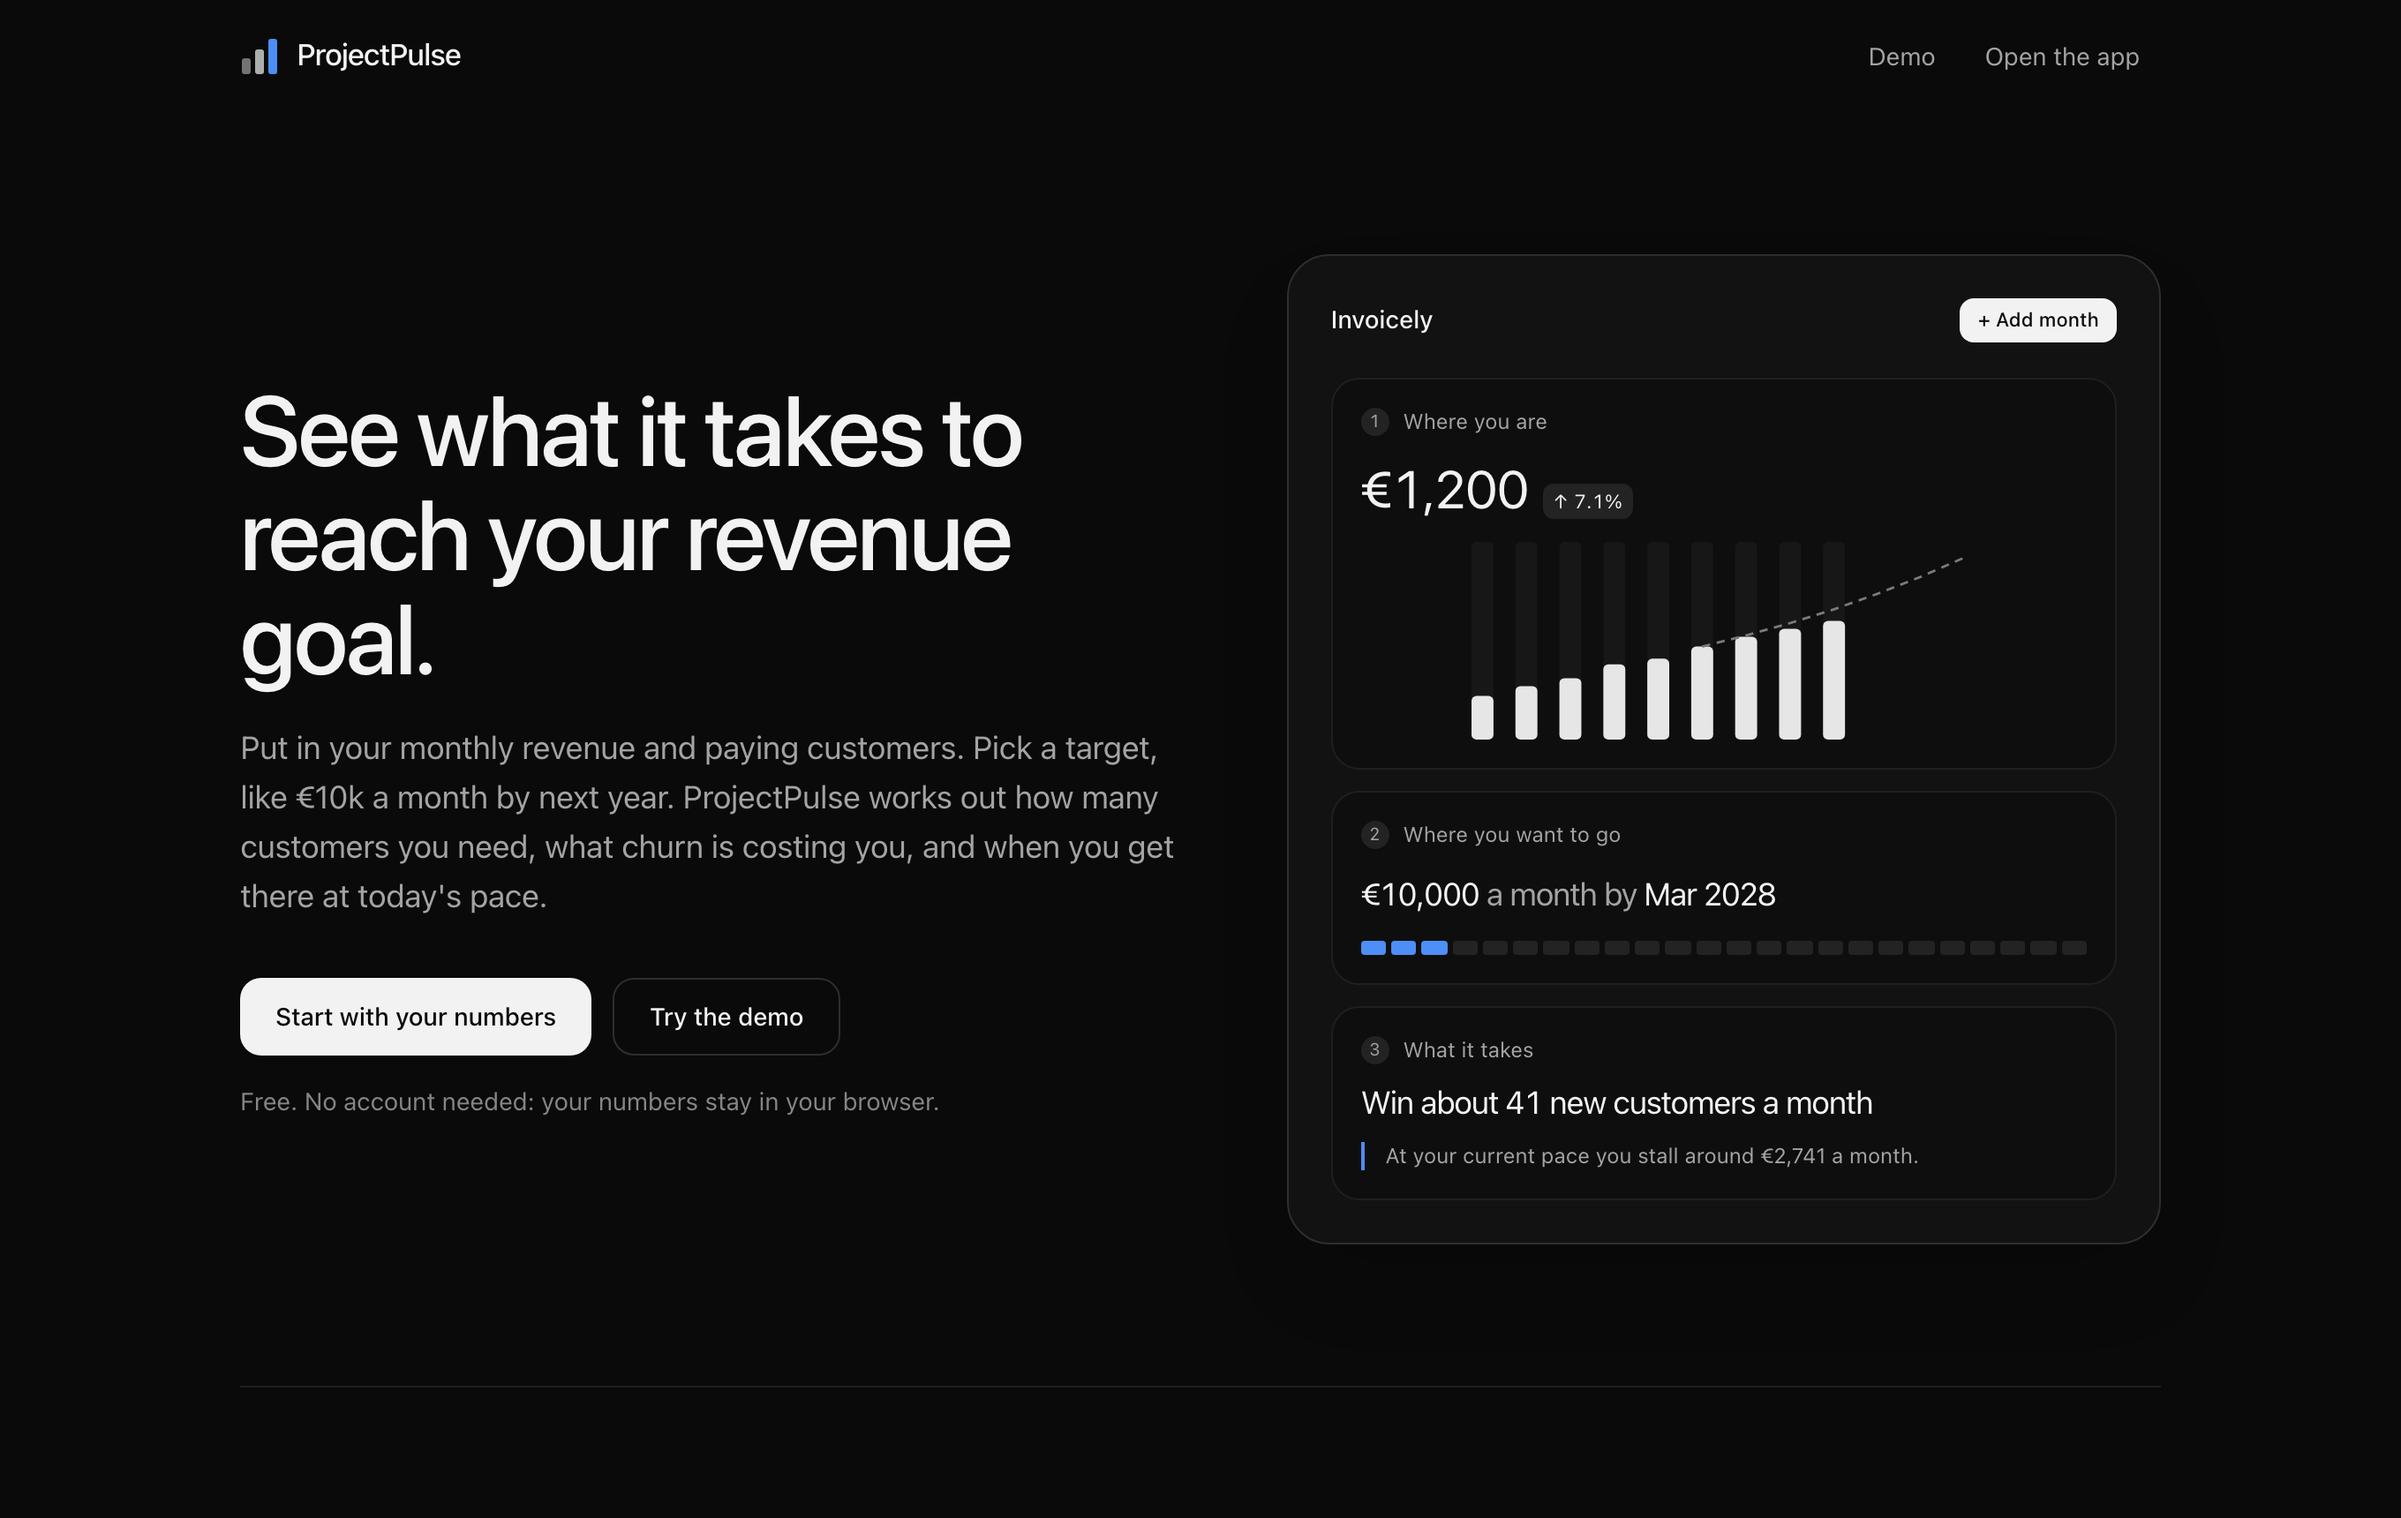
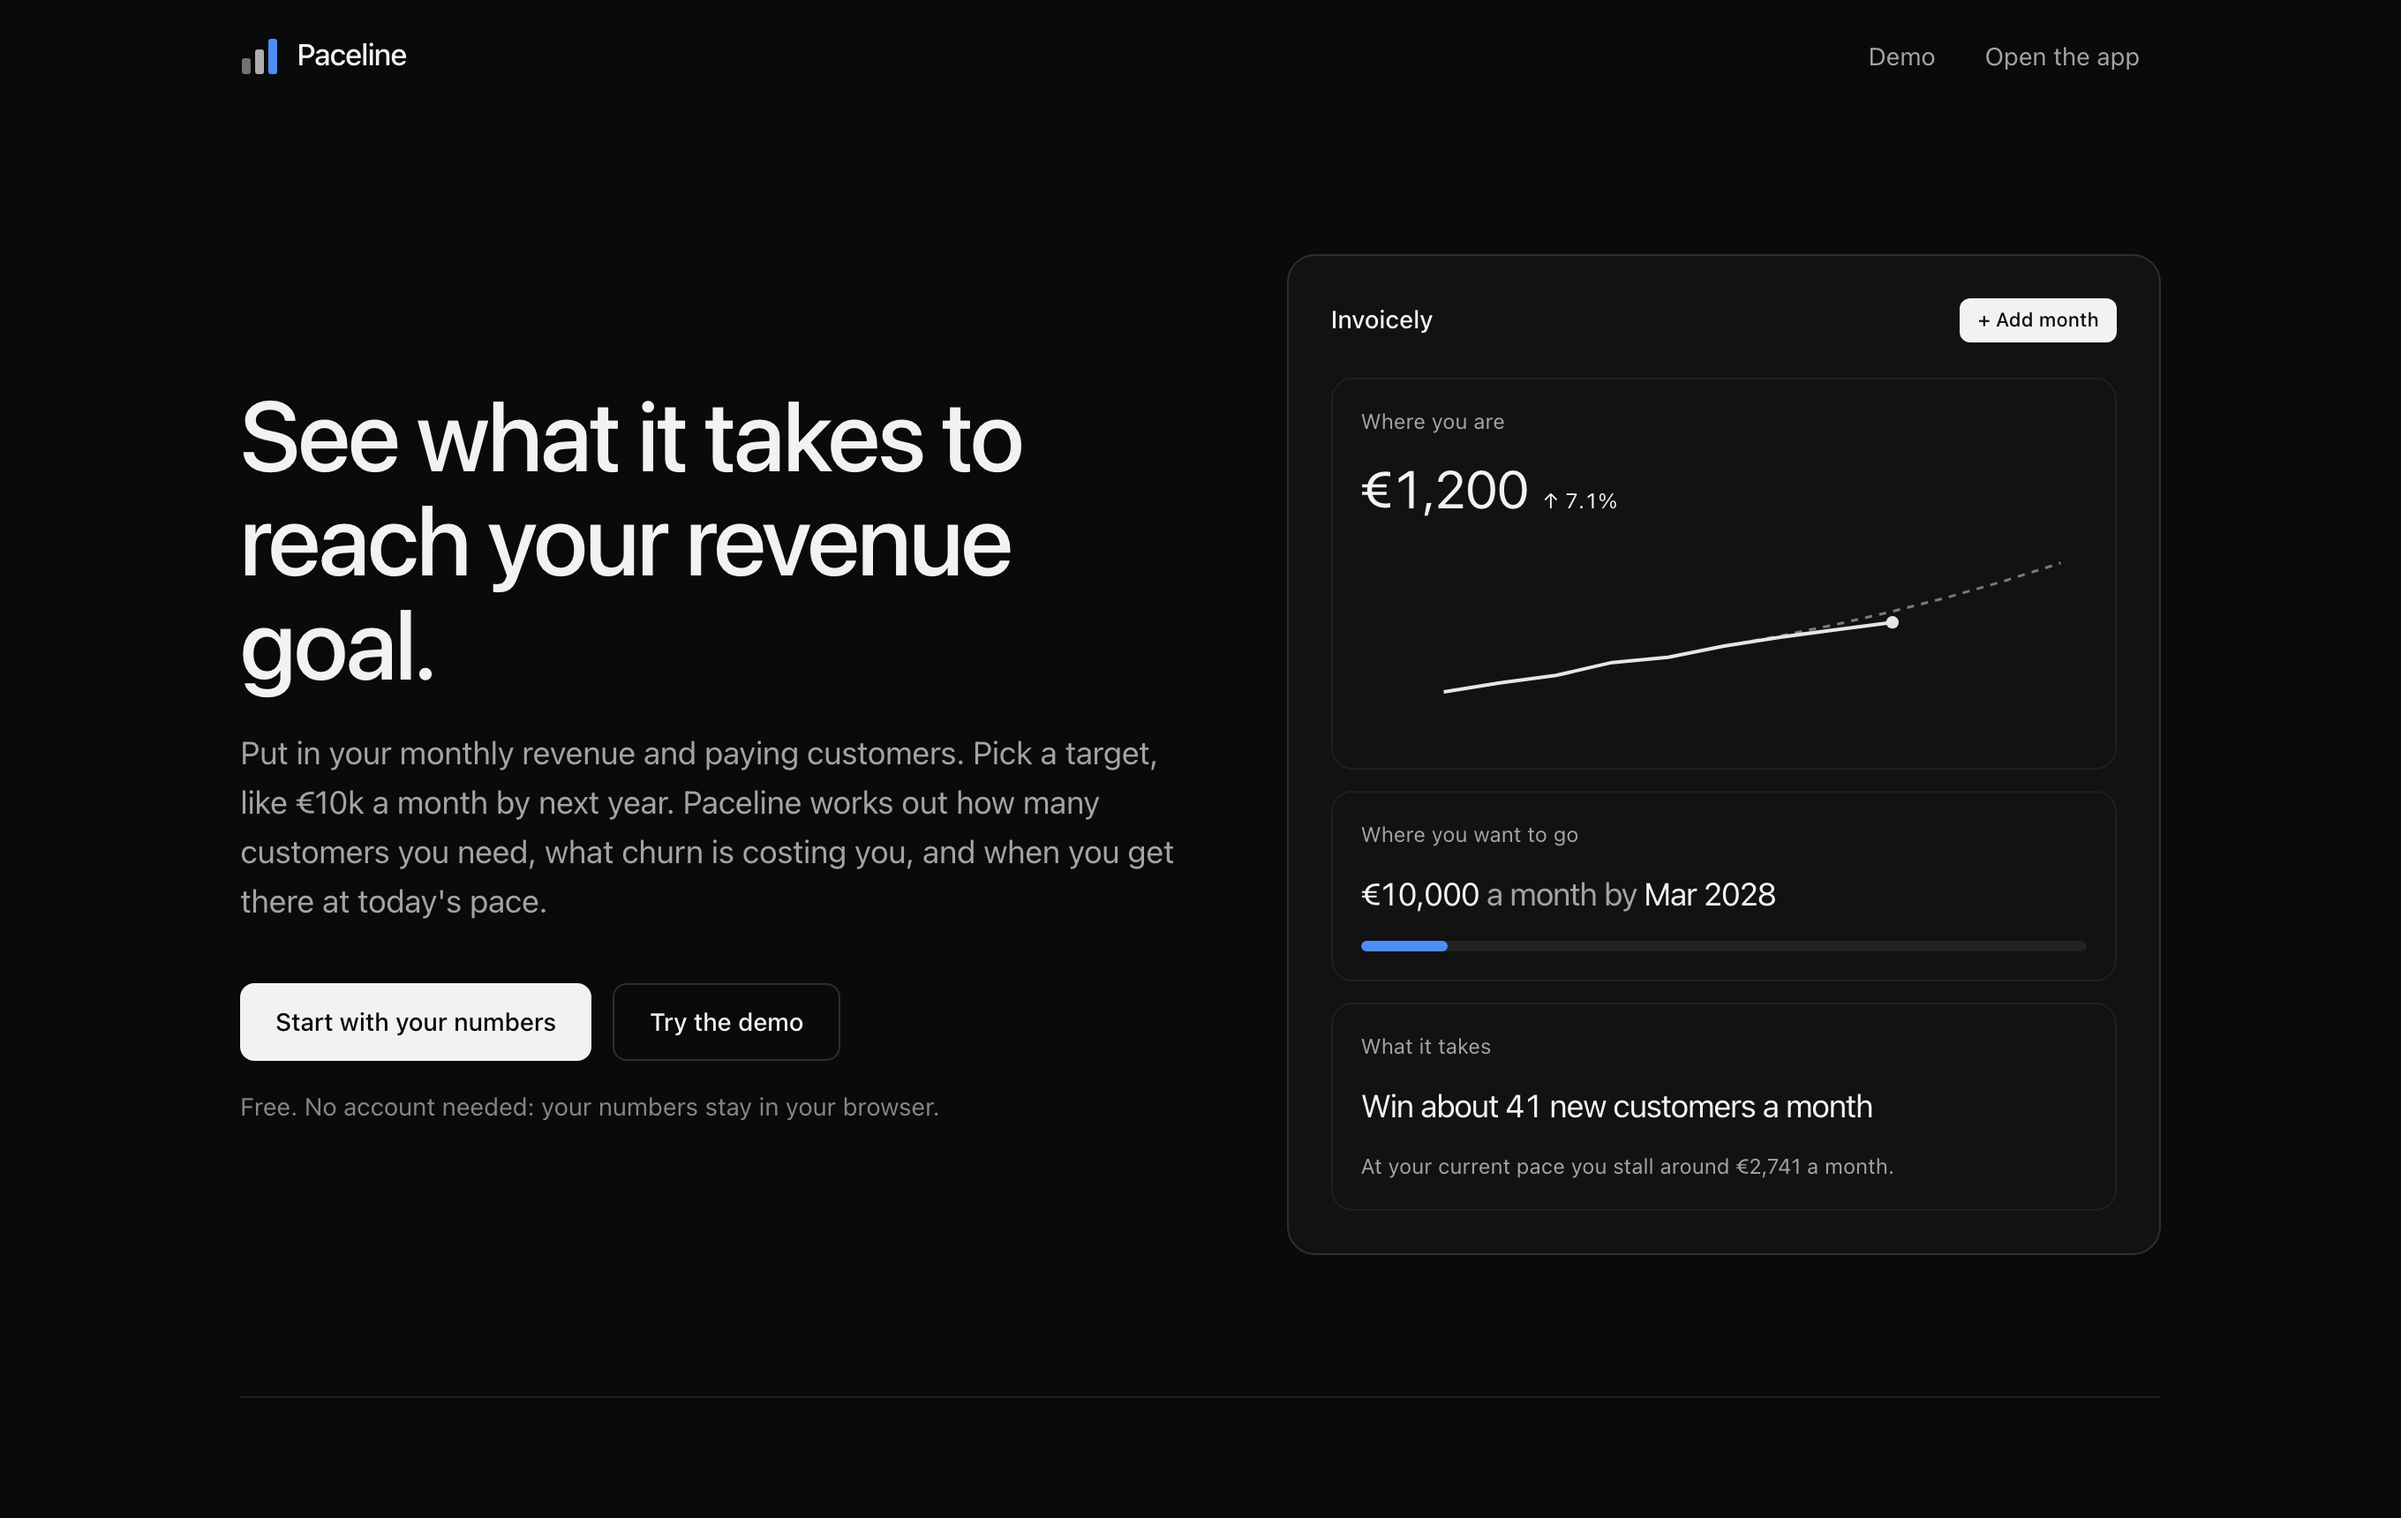
Name the product Paceline, refresh README screenshots
The README images still showed the old UI (numbered steps, block meters,
bar tracks). The churn what-if field now shows one decimal like the rest
of the page. Browser storage keys keep the old name so local data and the
theme choice survive the rename.

diff --git a/src/config/app.ts b/src/config/app.ts
@@ -1,11 +1,11 @@
-/** Provisional product name. Change it here; nothing else hard-codes it. */
-export const APP_NAME = "ProjectPulse";
+/** Product name. Change it here; nothing else hard-codes it. */
+export const APP_NAME = "Paceline";
 
 export const APP_DESCRIPTION =
-  "Track your SaaS or side project and see where it is heading.";
+  "See what it takes to reach your revenue goal.";
 
 /**
- * Name of the browser database. Deliberately independent from APP_NAME so a
- * rename never orphans users' local data.
+ * Name of the browser database. Deliberately independent from APP_NAME (it
+ * keeps the product's first name) so a rename never orphans users' local data.
  */
 export const LOCAL_DB_NAME = "projectpulse";

diff --git a/src/components/screens/ProjectScreen.tsx b/src/components/screens/ProjectScreen.tsx
@@ -674,7 +674,8 @@ function WhatIf({ data, plan }: { data: ProjectData; plan: PlanResult }) {
           label="Customers who leave each month"
           hint={GLOSSARY.churn}
           suffix="%"
-          value={formatNumber(levers.churnRate.value * 100, 2)}
+          // Same precision as the rest of the page, unless the user typed more.
+          value={formatNumber(levers.churnRate.value * 100, levers.churnRate.source === "user" ? 2 : 1)}
           source={levers.churnRate.source}
           parse={parsePercent}
           onSave={(v) => set({ monthlyChurnRate: v })}

diff --git a/src/components/screens/SettingsScreen.tsx b/src/components/screens/SettingsScreen.tsx
@@ -89,7 +89,7 @@ export function SettingsScreen() {
     const url = URL.createObjectURL(blob);
     const a = document.createElement("a");
     a.href = url;
-    a.download = `projectpulse-backup-${bundle.exportedAt.slice(0, 10)}.json`;
+    a.download = `paceline-backup-${bundle.exportedAt.slice(0, 10)}.json`;
     a.click();
     URL.revokeObjectURL(url);
     setStatus({

diff --git a/src/lib/theme.ts b/src/lib/theme.ts
@@ -5,6 +5,7 @@
 export const THEME_PREFERENCES = ["dark", "light", "system"] as const;
 export type ThemePreference = (typeof THEME_PREFERENCES)[number];
 
+/** Like LOCAL_DB_NAME, independent from APP_NAME so a rename keeps the choice. */
 export const THEME_STORAGE_KEY = "projectpulse:theme";
 const CHANGE_EVENT = "projectpulse:theme-change";
 

diff --git a/README.md b/README.md
@@ -1,4 +1,4 @@
-# ProjectPulse
+# Paceline
 
 **See what it takes to reach your revenue goal.** A planning tool for founders
 of small SaaS products and apps: put in your monthly revenue and paying
@@ -8,17 +8,18 @@ today's pace.
 
 ![The project page: where you are, where you want to go, what it takes](docs/screenshots/project.png)
 
-> *ProjectPulse* is a provisional name: it lives in one constant,
-> [`src/config/app.ts`](src/config/app.ts).
-
 ## What it does
 
 - **One page, three questions.** *Where you are* (revenue, customers, what each
   pays, how many leave), *where you want to go* (a goal with a plan line to
   compare every month against), *what it takes* (new customers needed per
   month, where growth stalls, runway and break-even).
+- **What moves it most.** Each lever (price, new customers, churn) made 10%
+  better, one at a time, ranked by how much revenue it adds by the deadline.
 - **"What if" numbers.** Change price, churn or new customers per month and
   watch the date move. One click goes back to the measured values.
+- **Costs and cash.** Runway from costs and cash on hand, and the month
+  revenue covers costs at the current pace.
 - **A plan, not a prediction.** Every number is arithmetic on months the user
   entered; values that aren't measured are labelled as guesses; real months
   (bars) and projections (dashed lines) never look alike.
